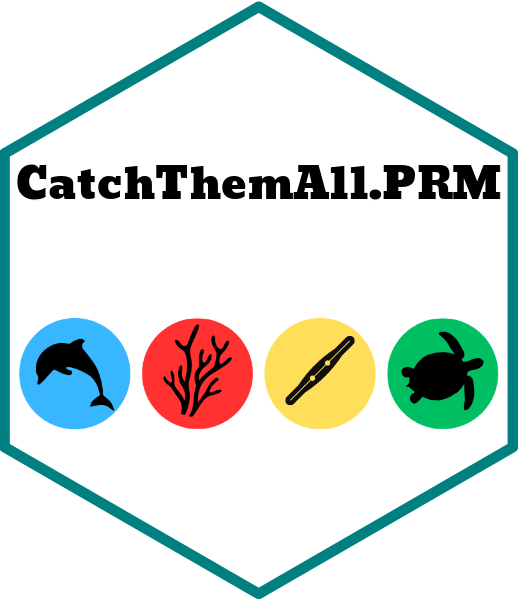
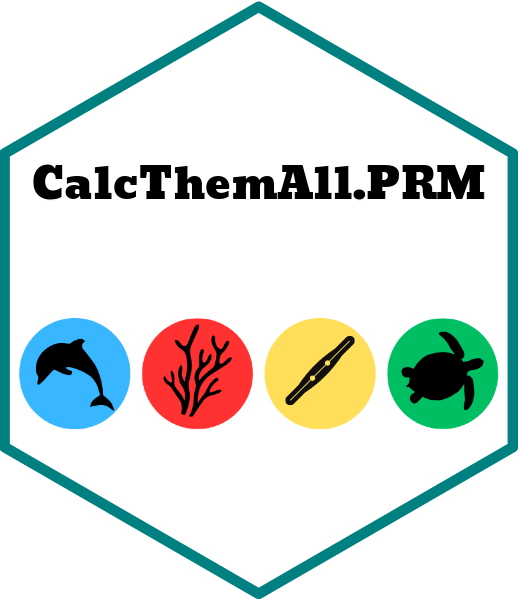
fixed hex image

Changed region(s): [[0.0309, 0.27, 0.9884, 0.33]]

diff --git a/README.md b/README.md
@@ -1,7 +1,7 @@
 
 <!-- README.md is generated from README.Rmd. Please edit that file -->
 
-# CatchThemAll.PRM <img src="man/figures/hex.png" align="right" height="138" alt="tidyr website" /></a>
+# CalcThemAll.PRM <img src="man/figures/hex.png" align="right" height="138" alt="tidyr website" /></a>
 
 <!-- badges: start -->
 <!-- badges: end -->
@@ -38,18 +38,18 @@ Fresh & Marine Water Quality seen in the table below.
 The easiest way to install this package is from CRAN
 
 ``` r
-install.packages("CatchThemAll.PRM")
+install.packages("CalcThemAll.PRM")
 ```
 
-You can install the development version of CatchThemAll.PRM from
+You can install the development version of CalcThemAll.PRM from
 [GitHub](https://github.com/) with:
 
 ``` r
 # install.packages("devtools")
-devtools::install_github("AlexWaterboyBezzina/CatchThemAll.PRM")
+devtools::install_github("AlexWaterboyBezzina/CalcThemAll.PRM")
 ```
 
-# How To Catch Them All (Calculate PRM Quick Version)
+# How To Calc Them All (Calculate PRM Quick Version)
 
 The process for calculating PRM estimates using this method is split
 into **4 main parts/functions:**
@@ -67,7 +67,7 @@ An example of how to run this package is provided below using the
 included `Canto_pesticides` concentration data.
 
 ``` r
-library(CatchThemAll.PRM)
+library(CalcThemAll.PRM)
 #1.Add new pesticides to pesticide_info table
 pesticide_info <- add_your_own_pesticide(pesticides = #adding multiple new pesticides
                                            c("Poison", "Acid", "Sludge"),
@@ -83,7 +83,7 @@ pesticide_info <- add_your_own_pesticide(pesticides = #adding multiple new pesti
 
 #2.Treat LOR Values
 Canto_pesticides_LOR_treated <- treat_LORs_all_data(raw_data = Canto_pesticides,
-pesticide_info = CatchThemAll.PRM::pesticide_info, treatment_method = "WQI")
+pesticide_info = CalcThemAll.PRM::pesticide_info, treatment_method = "WQI")
 
 #3.Calculate Daily Average PRM
 Canto_daily_PRM <- calculate_daily_average_PRM(LOR_treated_data = Canto_pesticides_LOR_treated)
@@ -122,8 +122,8 @@ head(Canto_wet_season_Total_PRM)
 #> 1 Celestial City 2017-2018             21.1 
 #> 2 Mt Lunar       2017-2018              5.97
 #> 3 Violet Town    2017-2018             37.5 
-#> 4 Celestial City 2018-2019             16.9 
-#> 5 Mt Lunar       2018-2019              3.95
+#> 4 Celestial City 2018-2019             16.8 
+#> 5 Mt Lunar       2018-2019              3.92
 #> 6 Violet Town    2018-2019             31.2
 ```
 
@@ -145,10 +145,10 @@ on the information and calculated data in any way and for any reason.
 **R Package:**
 
 *Bezzina A, Neelamraju C, Strauss J, Kaminski H, Roberts C, Glen J, Dias
-F. 2022. CatchThemAll.PRM: Pesticide Risk Metric Calculations. R
-package. Water Quality Monitoring & Investigations, Department of
-Environment and Science, Queensland Government.
-<https://github.com/AlexWaterboyBezzina/CatchThemAll.PRM>*
+F. 2022. CalcThemAll.PRM: Pesticide Risk Metric Calculations. R package.
+Water Quality Monitoring & Investigations, Department of Environment and
+Science, Queensland Government.
+<https://github.com/AlexWaterboyBezzina/CalcThemAll.PRM>*
 
 **Methods Behind Pesticide Risk Metric:**
 
